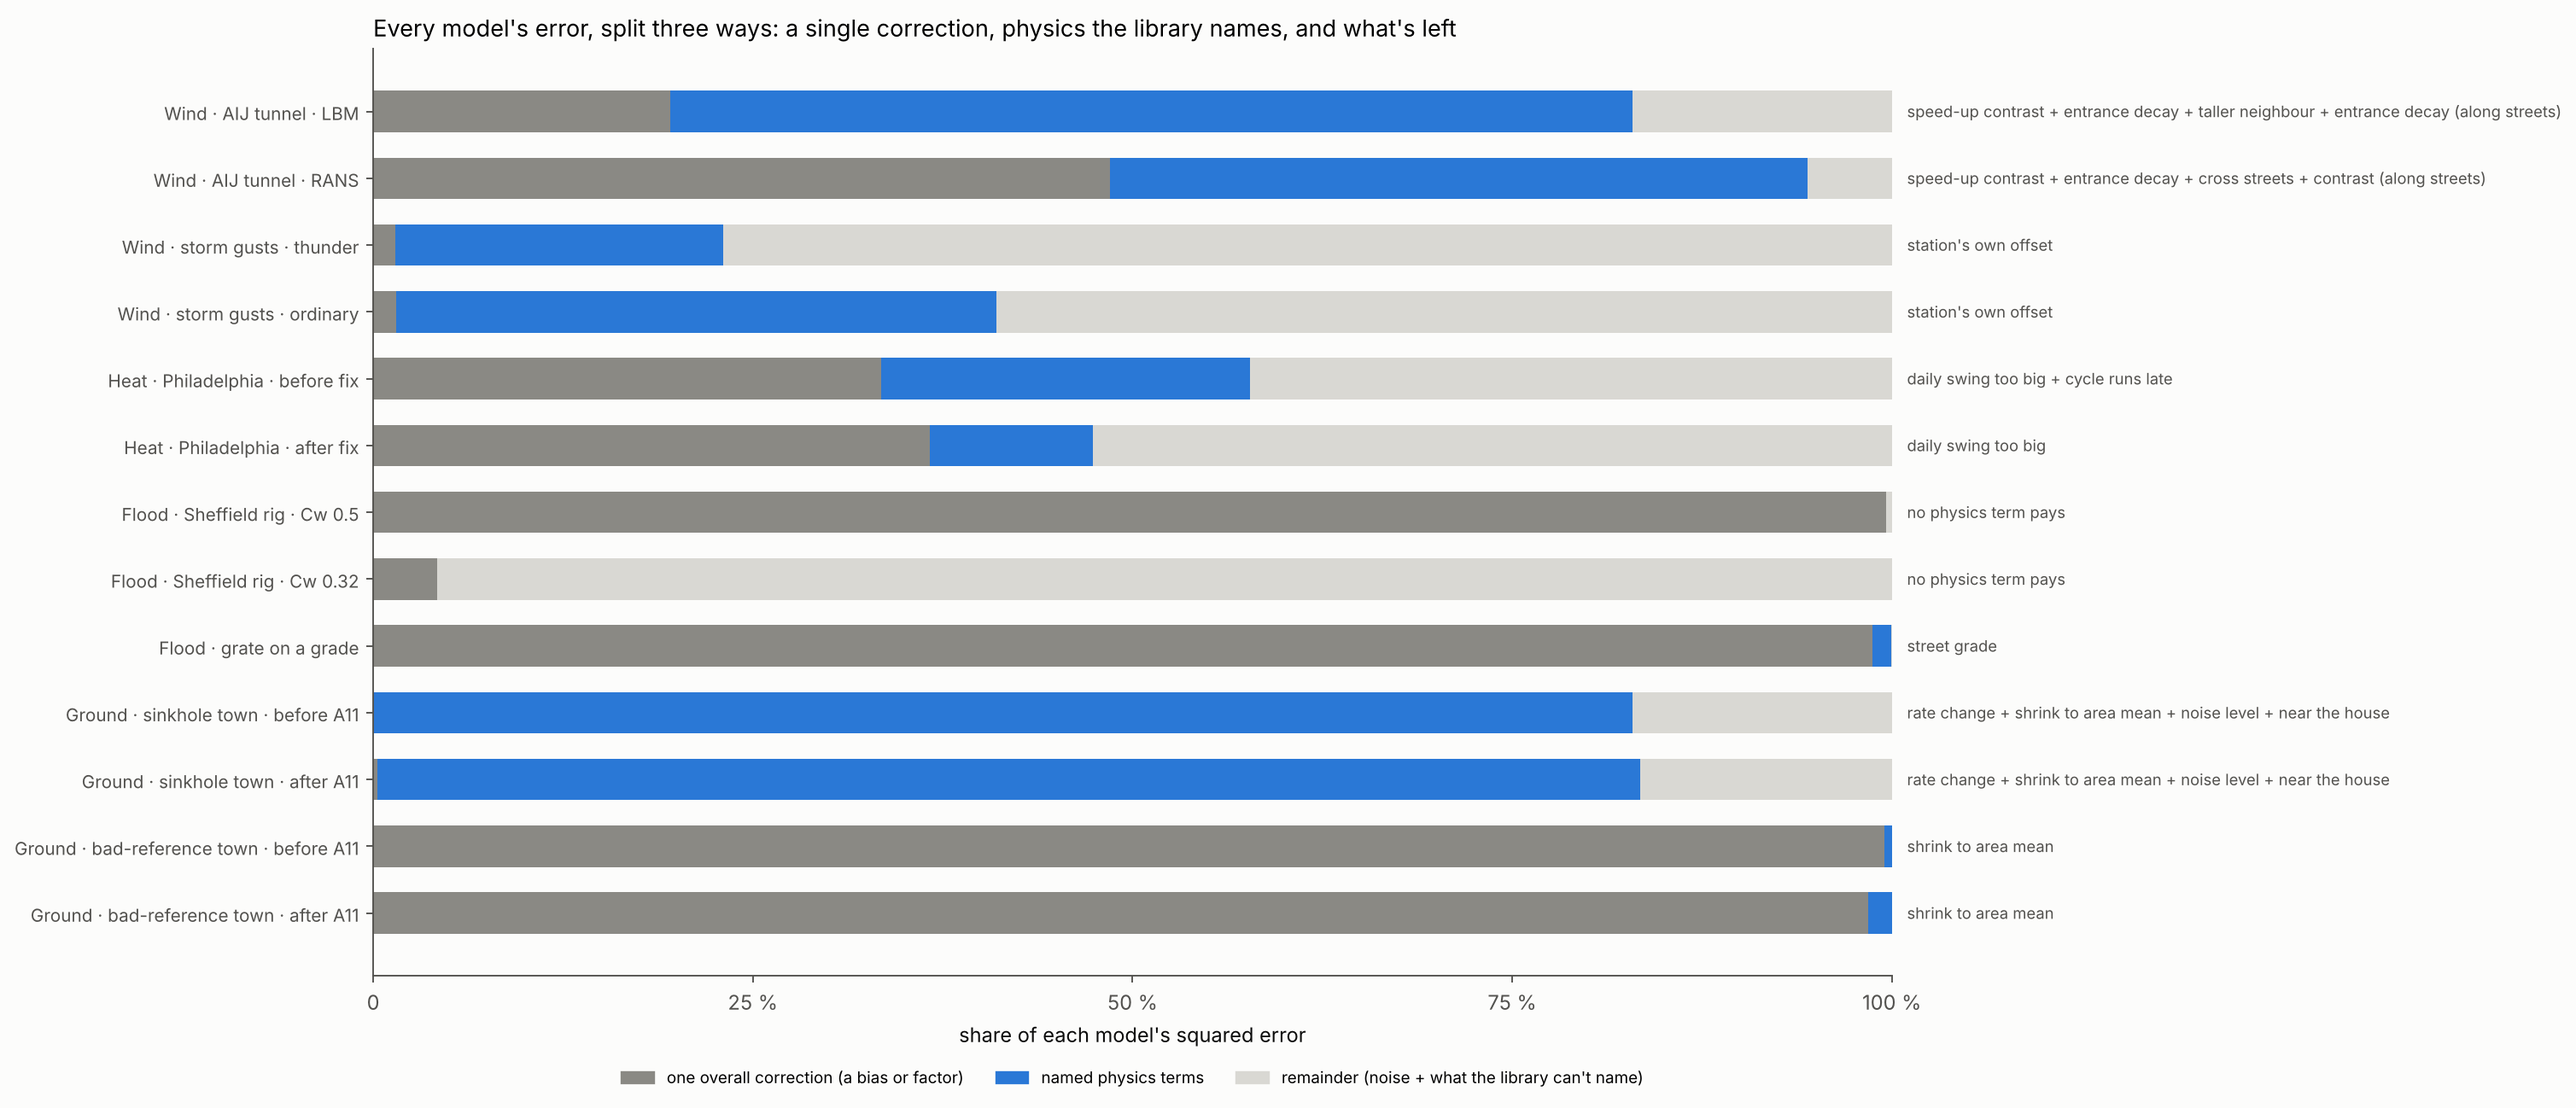
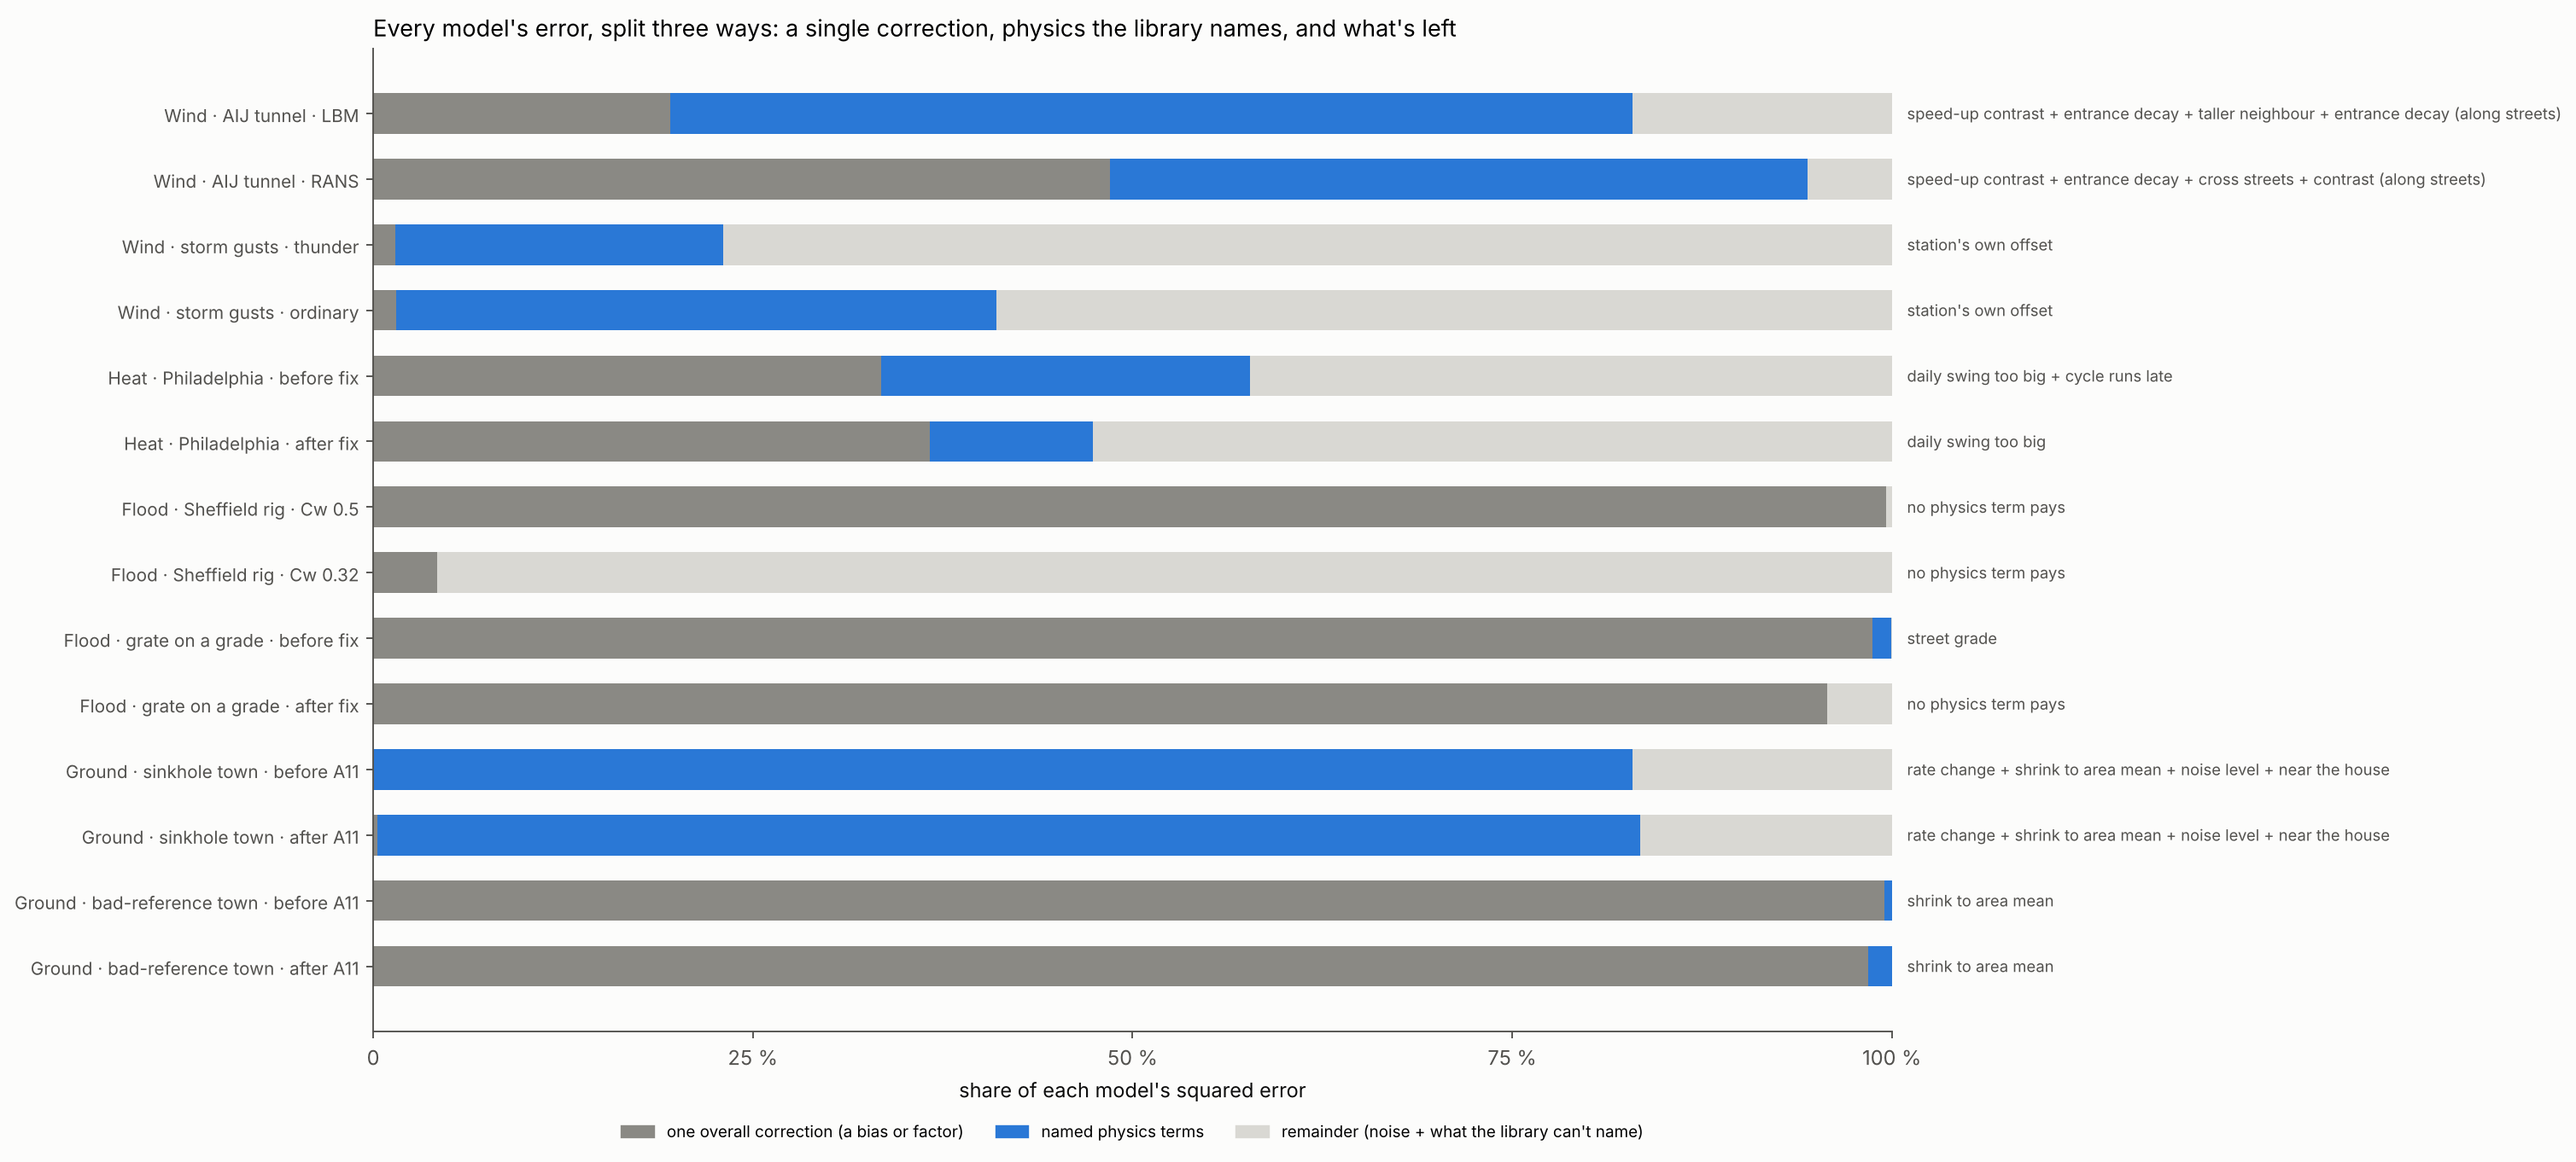
physlib: scoreboard shows grate-on-grade before and after the fix
Claude-Session: https://claude.ai/code/session_01LYT5QAEeg6s7potMDMDLkS

diff --git a/physlib/figures.py b/physlib/figures.py
@@ -274,7 +274,7 @@ def fig_scoreboard():
     if H: add("Heat · Philadelphia · before fix", H["before_round"], Ha["before_round"]); add("Heat · Philadelphia · after fix", H["after_round"], Ha["after_round"])
     if F:
         add("Flood · Sheffield rig · Cw 0.5", F["F1_before"], Fa["F1_before"]); add("Flood · Sheffield rig · Cw 0.32", F["F1_after"], Fa["F1_after"])
-        add("Flood · grate on a grade", F["F2_before"], Fa["F2_before"])
+        add("Flood · grate on a grade · before fix", F["F2_before"], Fa["F2_before"]); add("Flood · grate on a grade · after fix", F["F2_after"], Fa["F2_after"])
     if Gj:
         for t in ("sinkhole", "bad-reference"):
             for l in ("before", "after"): add(f"Ground · {t} town · {l} A11", Gj[f"{t}_{l}"]["rate"], Ga[f"{t}_{l}"], "r", "mu")
